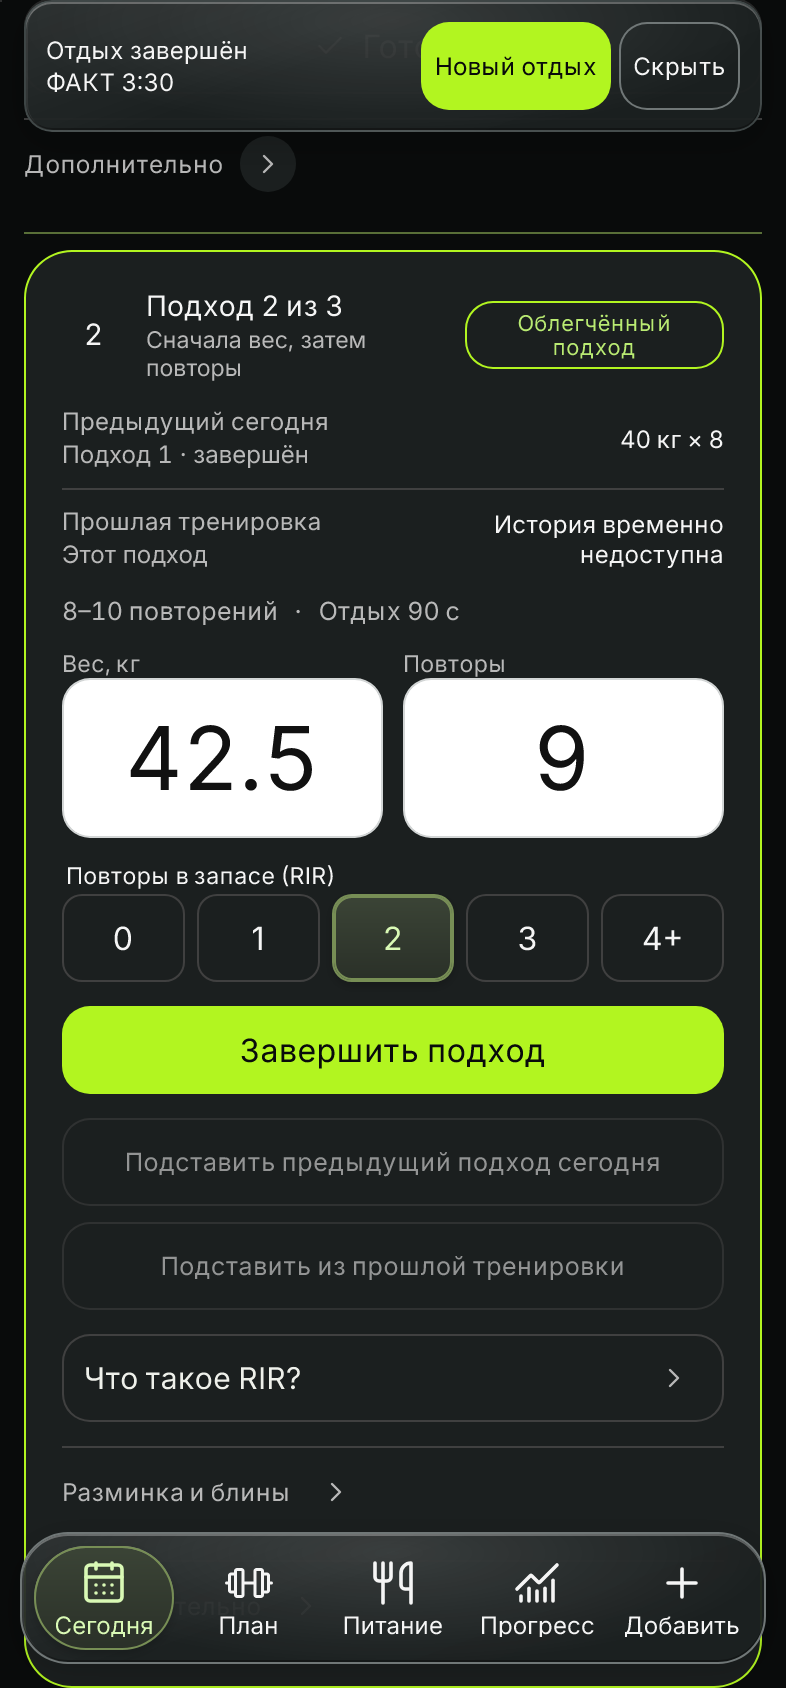
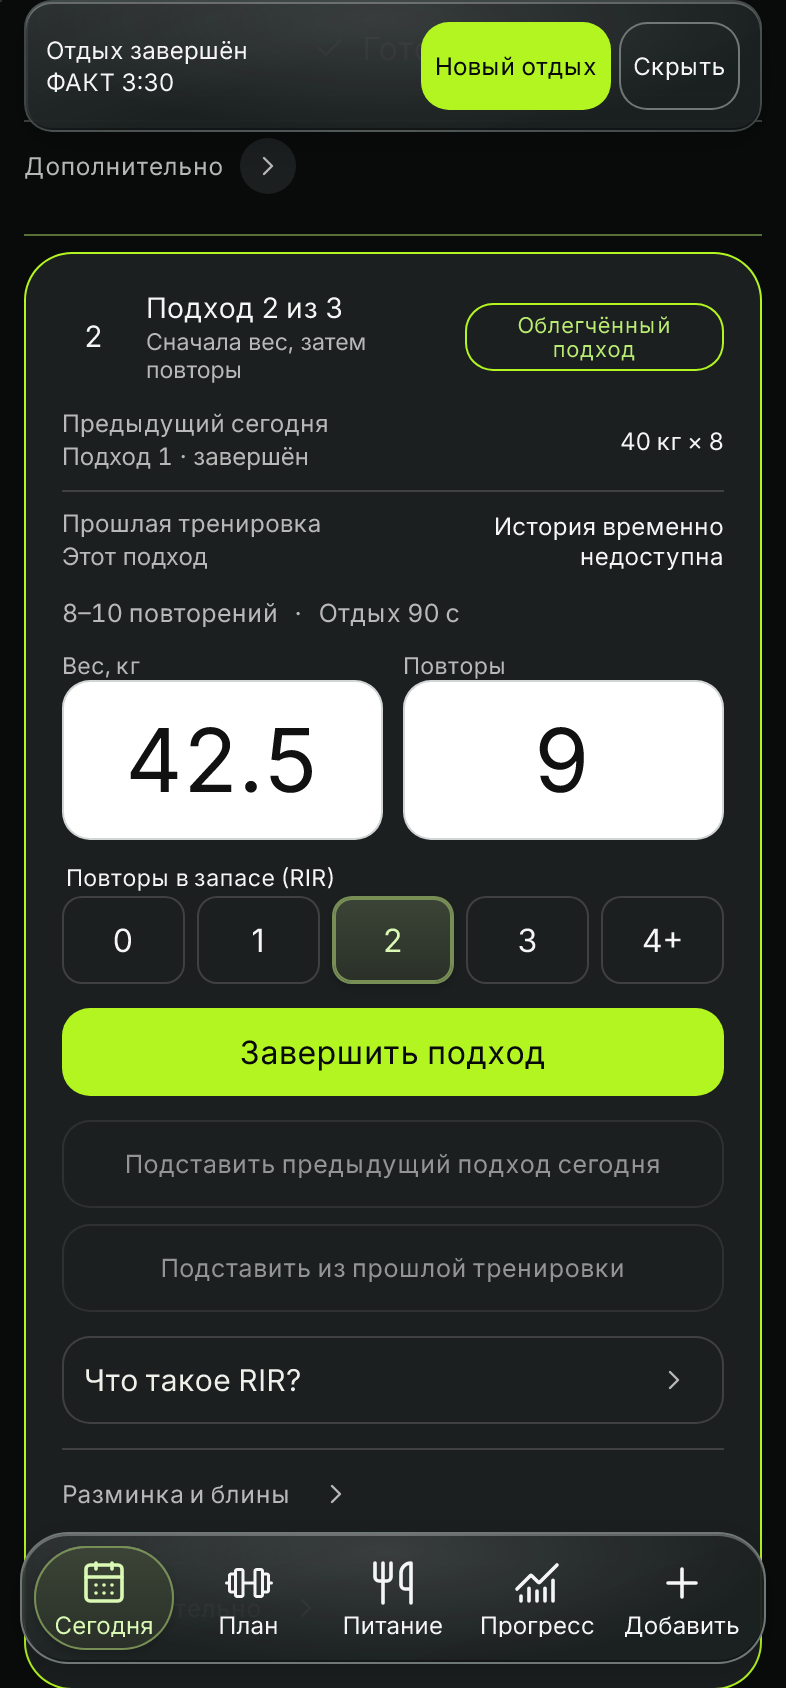
fix(workouts): prevent long rest clocks from touching

diff --git a/frontend/tests/e2e/active-workout-experience.spec.ts b/frontend/tests/e2e/active-workout-experience.spec.ts
@@ -948,12 +948,22 @@ test.describe('#1097 rest clock typography and v2 compact layout', () => {
           const actualFits = actual.scrollWidth <= actual.clientWidth + 1;
           const plannedText = document.createRange();
           plannedText.selectNodeContents(planned);
+          const plannedRight = plannedText.getBoundingClientRect().right;
+          const originalPlanned = planned.textContent;
+          // Exercise the maximum prescribed ten-minute rest at narrow widths.
+          planned.textContent = '10:00';
+          plannedText.selectNodeContents(planned);
+          const tenMinuteRight = plannedText.getBoundingClientRect().right;
+          const tenMinuteActualLeft = actualBlock.getBoundingClientRect().left;
+          planned.textContent = originalPlanned;
           const geometry = {
             timerSize,
             actualSize,
             actualFits,
             plannedLeft: planned.getBoundingClientRect().left,
-            plannedRight: plannedText.getBoundingClientRect().right,
+            plannedRight,
+            tenMinuteRight,
+            tenMinuteActualLeft,
             statusLeft: status.getBoundingClientRect().left,
             actualLeft: actualBlock.getBoundingClientRect().left,
             actualRight: actualBlock.getBoundingClientRect().right,
@@ -981,6 +991,10 @@ test.describe('#1097 rest clock typography and v2 compact layout', () => {
           result.actualLeft - result.plannedRight,
           `${width}px ${theme}: clock separation`,
         ).toBeGreaterThanOrEqual(15);
+        expect(
+          result.tenMinuteActualLeft - result.tenMinuteRight,
+          `${width}px ${theme}: ten-minute rest`,
+        ).toBeGreaterThanOrEqual(4);
         expect(result.actualRight).toBeLessThanOrEqual(result.statusLeft + 1);
         expect(result.stopRight).toBeLessThanOrEqual(result.panelRight + 1);
         expect(result.actualRight).toBeLessThanOrEqual(result.panelRight + 1);
@@ -988,7 +1002,10 @@ test.describe('#1097 rest clock typography and v2 compact layout', () => {
         expect(result.actions).toHaveLength(4);
         expect(result.actions.every((button) => button.width >= 44)).toBe(true);
         expect(Math.abs(result.plannedLeft - result.actions[0]!.left)).toBeLessThanOrEqual(1);
-        expect(Math.abs(result.actualLeft - result.actions[1]!.left)).toBeLessThanOrEqual(1);
+        expect(Math.abs(result.actualLeft - result.actions[1]!.left)).toBeLessThanOrEqual(2);
+        expect(Math.abs(result.tenMinuteActualLeft - result.actions[1]!.left)).toBeLessThanOrEqual(
+          8,
+        );
         await panel.screenshot({
           path: test.info().outputPath(`rest-clock-${theme}-${width}.png`),
           animations: 'disabled',

diff --git a/frontend/src/styles/react.css b/frontend/src/styles/react.css
@@ -5861,15 +5861,16 @@ html[data-yfc-pwa-focus-placement='true'][data-yfc-keyboard='visible']
   min-width: 0;
   min-height: var(--touch-target, 44px);
 }
-/* Match the first action's flex width, allowing for the different row gaps. */
-.active-workout-rest__time {
-  flex: 0 0 calc(21.0526% - 1.6842px);
-}
 .active-workout-rest__time,
 .active-workout-rest__actual-value {
   display: grid;
   gap: 1px;
   min-width: 0;
+}
+/* Match the first action's width without allowing a long clock to overlap. */
+.active-workout-rest__time {
+  flex: 0 0 calc(21.0526% - 1.6842px);
+  min-width: max-content;
 }
 .active-workout-rest__time > span,
 .active-workout-rest__actual-value > span {
